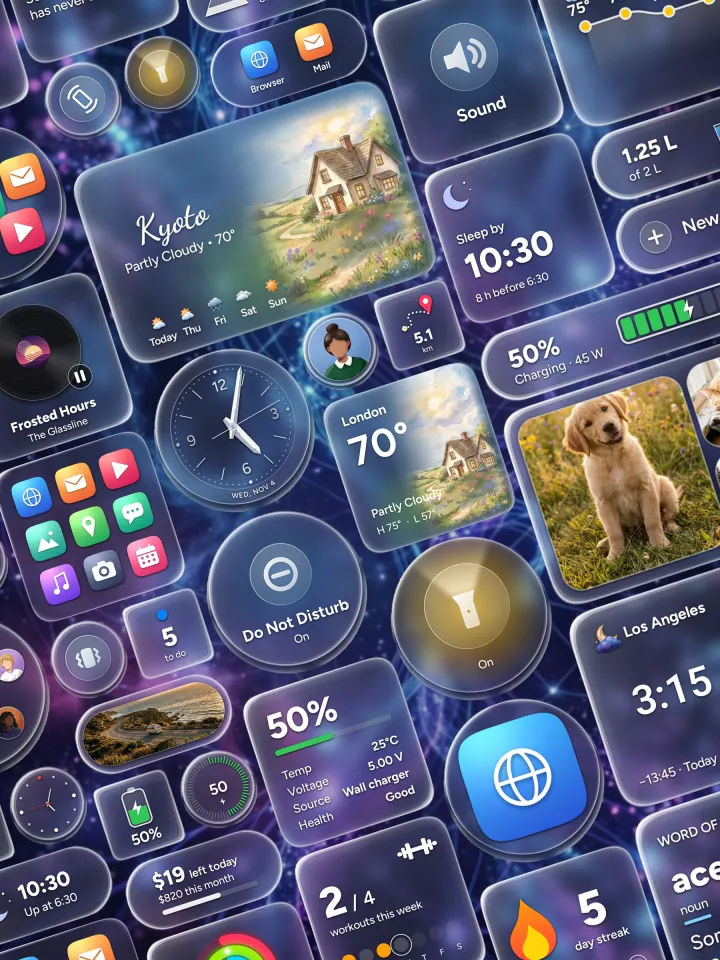
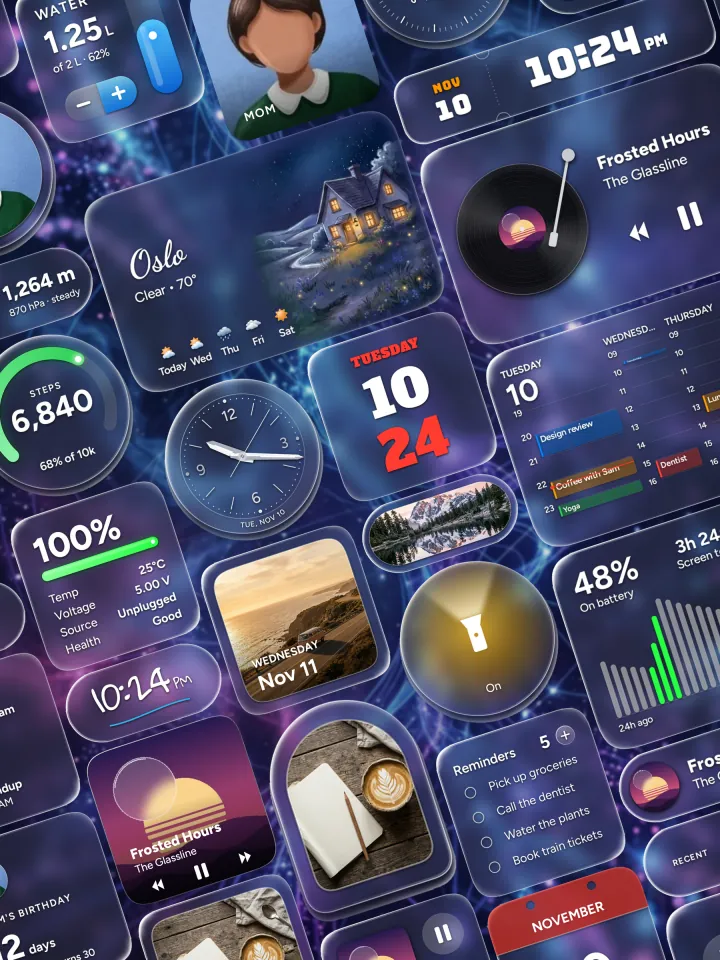
Frosted: published on Google Play, new screenshots, 103 wallpapers, new step widget

diff --git a/apps/frosted/index.html b/apps/frosted/index.html
@@ -43,7 +43,7 @@ button:focus-visible,a:focus-visible,input:focus-visible{outline:2px solid #CFCF
 @media(prefers-reduced-motion:reduce){*{animation:none!important;transition:none!important;scroll-behavior:auto!important}}
 </style></head><body><div class="aur" aria-hidden="true"><i></i><i></i><i></i></div>
 <div class="w"><nav><a class="brand" href="/"><img src="/assets/frosted-icon.webp" alt="" width="34" height="34">Frosted</a><span class="links"><a href="#play">Try it</a><a href="#widgets">Widgets</a></span></nav>
-<header class="top"><span class="tag">Android &middot; In closed testing on Google Play</span><h1>Glass for your<br><em>home screen.</em></h1><p class="lead">More than 250 transparent, blurred glass widgets and original wallpapers to match. Pick one, style it, add it.</p><a class="btn" href="#play">Try the frost &darr;</a></header></div>
+<header class="top"><span class="tag">Android &middot; Now on Google Play</span><h1>Glass for your<br><em>home screen.</em></h1><p class="lead">More than 250 transparent, blurred glass widgets and original wallpapers to match. Pick one, style it, add it.</p><a class="btn" href="#play">Try the frost &darr;</a></header></div>
 <section class="stage" id="play" style="--f:60"><div class="bg" id="bg"></div><div class="w sw">
 <div class="board" id="board"><div class="row"><figure class="g wide"><div class="blur"></div><img data-w="weather_scene_4x2" src="img/w/weather_scene_4x2_light.webp" alt="Weather Scene widget" width="900" height="566"></figure><figure class="g sq" style="--i:5.0%"><div class="blur"></div><img data-w="clock_ornate_2x2" src="img/w/clock_ornate_2x2_light.webp" alt="Ornate clock widget" width="480" height="480"></figure></div><div class="row"><figure class="g sq" style="--i:5.0%"><div class="blur"></div><img data-w="steps_2x2" src="img/w/steps_2x2_light.webp" alt="Steps widget" width="480" height="480"></figure><figure class="g wide"><div class="blur"></div><img data-w="music_vinyl_4x2" src="img/w/music_vinyl_4x2_light.webp" alt="Vinyl music widget" width="900" height="566"></figure></div><div class="row"><figure class="g wide"><div class="blur"></div><img data-w="calendar_events_4x2" src="img/w/calendar_events_4x2_light.webp" alt="Calendar with events widget" width="900" height="566"></figure><figure class="g sq" style="--i:5.0%"><div class="blur"></div><img data-w="clock_crystal_2x2" src="img/w/clock_crystal_2x2_light.webp" alt="Crystal clock widget" width="480" height="480"></figure></div></div><svg width="0" height="0" aria-hidden="true" style="position:absolute"><defs><clipPath id="sq" clipPathUnits="objectBoundingBox"><path d="M0.8428 0.0000 L0.8996 0.0011 L0.9228 0.0043 L0.9401 0.0097 L0.9540 0.0173 L0.9655 0.0273 L0.9750 0.0398 L0.9828 0.0549 L0.9891 0.0732 L0.9939 0.0953 L0.9973 0.1228 L0.9993 0.1597 L1.0000 0.2500 L1.0000 0.7500 L0.9993 0.8403 L0.9973 0.8772 L0.9939 0.9047 L0.9891 0.9268 L0.9828 0.9451 L0.9750 0.9602 L0.9655 0.9727 L0.9540 0.9827 L0.9401 0.9903 L0.9228 0.9957 L0.8996 0.9989 L0.8428 1.0000 L0.1572 1.0000 L0.1004 0.9989 L0.0772 0.9957 L0.0599 0.9903 L0.0460 0.9827 L0.0345 0.9727 L0.0250 0.9602 L0.0172 0.9451 L0.0109 0.9268 L0.0061 0.9047 L0.0027 0.8772 L0.0007 0.8403 L0.0000 0.7500 L0.0000 0.2500 L0.0007 0.1597 L0.0027 0.1228 L0.0061 0.0953 L0.0109 0.0732 L0.0172 0.0549 L0.0250 0.0398 L0.0345 0.0273 L0.0460 0.0173 L0.0599 0.0097 L0.0772 0.0043 L0.1004 0.0011 L0.1572 0.0000Z"/></clipPath></defs></svg>
 <div class="dock"><label class="sl"><span>Clear</span><input id="r" type="range" min="0" max="100" value="60" aria-label="Frost amount"><span>Frosted</span><output id="o">60</output></label>
@@ -52,7 +52,7 @@ button:focus-visible,a:focus-visible,input:focus-visible{outline:2px solid #CFCF
 <p class="note">These are real Frosted widgets, shown with sample data. The frost here is a web preview; on your phone it blurs your own wallpaper.</p></div></section>
 <div class="mq" aria-hidden="true"><div><span>Clocks</span> <span>Weather</span> <span>Calendar</span> <span>Music</span> <span>Photos</span> <span>Battery</span> <span>Bluetooth</span> <span>Fitness</span> <span>Quick settings</span> <span>Quotes</span> <span>Mood</span> <span>Prayer times</span> <span>Reminders</span> <span>Countdowns</span> <span>Wallpapers</span> <span>Clocks</span> <span>Weather</span> <span>Calendar</span> <span>Music</span> <span>Photos</span> <span>Battery</span> <span>Bluetooth</span> <span>Fitness</span> <span>Quick settings</span> <span>Quotes</span> <span>Mood</span> <span>Prayer times</span> <span>Reminders</span> <span>Countdowns</span> <span>Wallpapers</span></div></div>
 <main class="w">
-<section class="stats r"><div><b>250+</b><span>widgets</span></div><div><b>88</b><span>original wallpapers</span></div><div><b>0&ndash;100</b><span>frost, your choice</span></div></section>
+<section class="stats r"><div><b>250+</b><span>widgets</span></div><div><b>103</b><span>original wallpapers</span></div><div><b>0&ndash;100</b><span>frost, your choice</span></div></section>
 <section class="r"><h2>The real thing.</h2><p class="sub">With one of our wallpapers or your own photo, the glass shows the real wallpaper behind the widget.</p><div class="shots"><img loading="lazy" src="img/1_hero.webp" alt="A home screen of Frosted widgets" width="720" height="960"><img loading="lazy" src="img/2_frost.webp" alt="A weather widget frosted over a forest" width="720" height="960"><img loading="lazy" src="img/3_wallpapers.webp" alt="Widgets blurring the wallpaper behind them" width="720" height="960"><img loading="lazy" src="img/4_sheet1.webp" alt="A collection of glass widgets" width="720" height="960"><img loading="lazy" src="img/5_sheet2.webp" alt="More glass widgets" width="720" height="960"><img loading="lazy" src="img/6_sheet3.webp" alt="More glass widgets" width="720" height="960"><img loading="lazy" src="img/7_sheet4.webp" alt="More glass widgets" width="720" height="960"></div></section>
 <section id="widgets"><h2 class="r">A widget for everything.</h2><p class="sub r">250+ designs across every part of your day.</p><div class="bento"><article class="card r"><h3>Clocks</h3><p>Analog, digital, split-flap, word and world clocks, with separate time and date fonts on many.</p></article><article class="card r"><h3>Weather</h3><p>Illustrated scenes that follow the sky, hourly and daily forecasts, air quality and UV.</p></article><article class="card r"><h3>Calendar</h3><p>Month views, agendas, upcoming events and date displays.</p></article><article class="card r"><h3>Music</h3><p>Now-playing controls, plus vinyl and cassette designs.</p></article><article class="card r"><h3>Photos</h3><p>Frames, shapes and collages that rotate through your pictures.</p></article><article class="card r"><h3>Battery &amp; Bluetooth</h3><p>Battery rings and history, earbuds and other devices.</p></article><article class="card r"><h3>Fitness</h3><p>Steps, workouts and water.</p></article><article class="card r"><h3>Quick settings</h3><p>Flashlight, sound modes, volume, brightness and speed tests.</p></article><article class="card r"><h3>Daily</h3><p>Quotes, affirmations, word of the day, mood and bedtime.</p></article><article class="card r"><h3>Faith</h3><p>Prayer times and Qibla direction.</p></article><article class="card r"><h3>Productivity</h3><p>Reminders, countdowns, medication checklists and app shortcuts.</p></article></div></section>
 <section class="r"><h2>Make each one yours.</h2><div class="bento three"><article class="card"><h3>Style</h3><p>Light or dark glass, frost from 0 to 100, and a choice of fonts, including a dot-matrix style.</p></article><article class="card"><h3>Copies</h3><p>Place as many as you like, each with its own look, or apply one look to all of them at once.</p></article><article class="card"><h3>Wallpapers</h3><p>Abstract, AMOLED, art, bikes, city, minimal, mountains, nature, ocean and space. Set one in a tap on your home screen, lock screen or both.</p></article></div></section>

diff --git a/index.html b/index.html
@@ -312,7 +312,7 @@
             <div class="app-card">
                 <div class="card-top">
                     <img class="app-icon" src="/assets/frosted-icon.webp" alt="Frosted app icon" width="64" height="64">
-                    <span class="card-tag tag-active">Google Play • Closed Testing</span>
+                    <span class="card-tag tag-active">Google Play • Published</span>
                     <h2 class="app-title"><a class="card-link" href="/apps/frosted/">Frosted</a></h2>
                     <p class="app-desc">
                         Transparent frosted-glass home-screen widgets and wallpapers for Android: clock, weather, calendar, music, photos and more.
